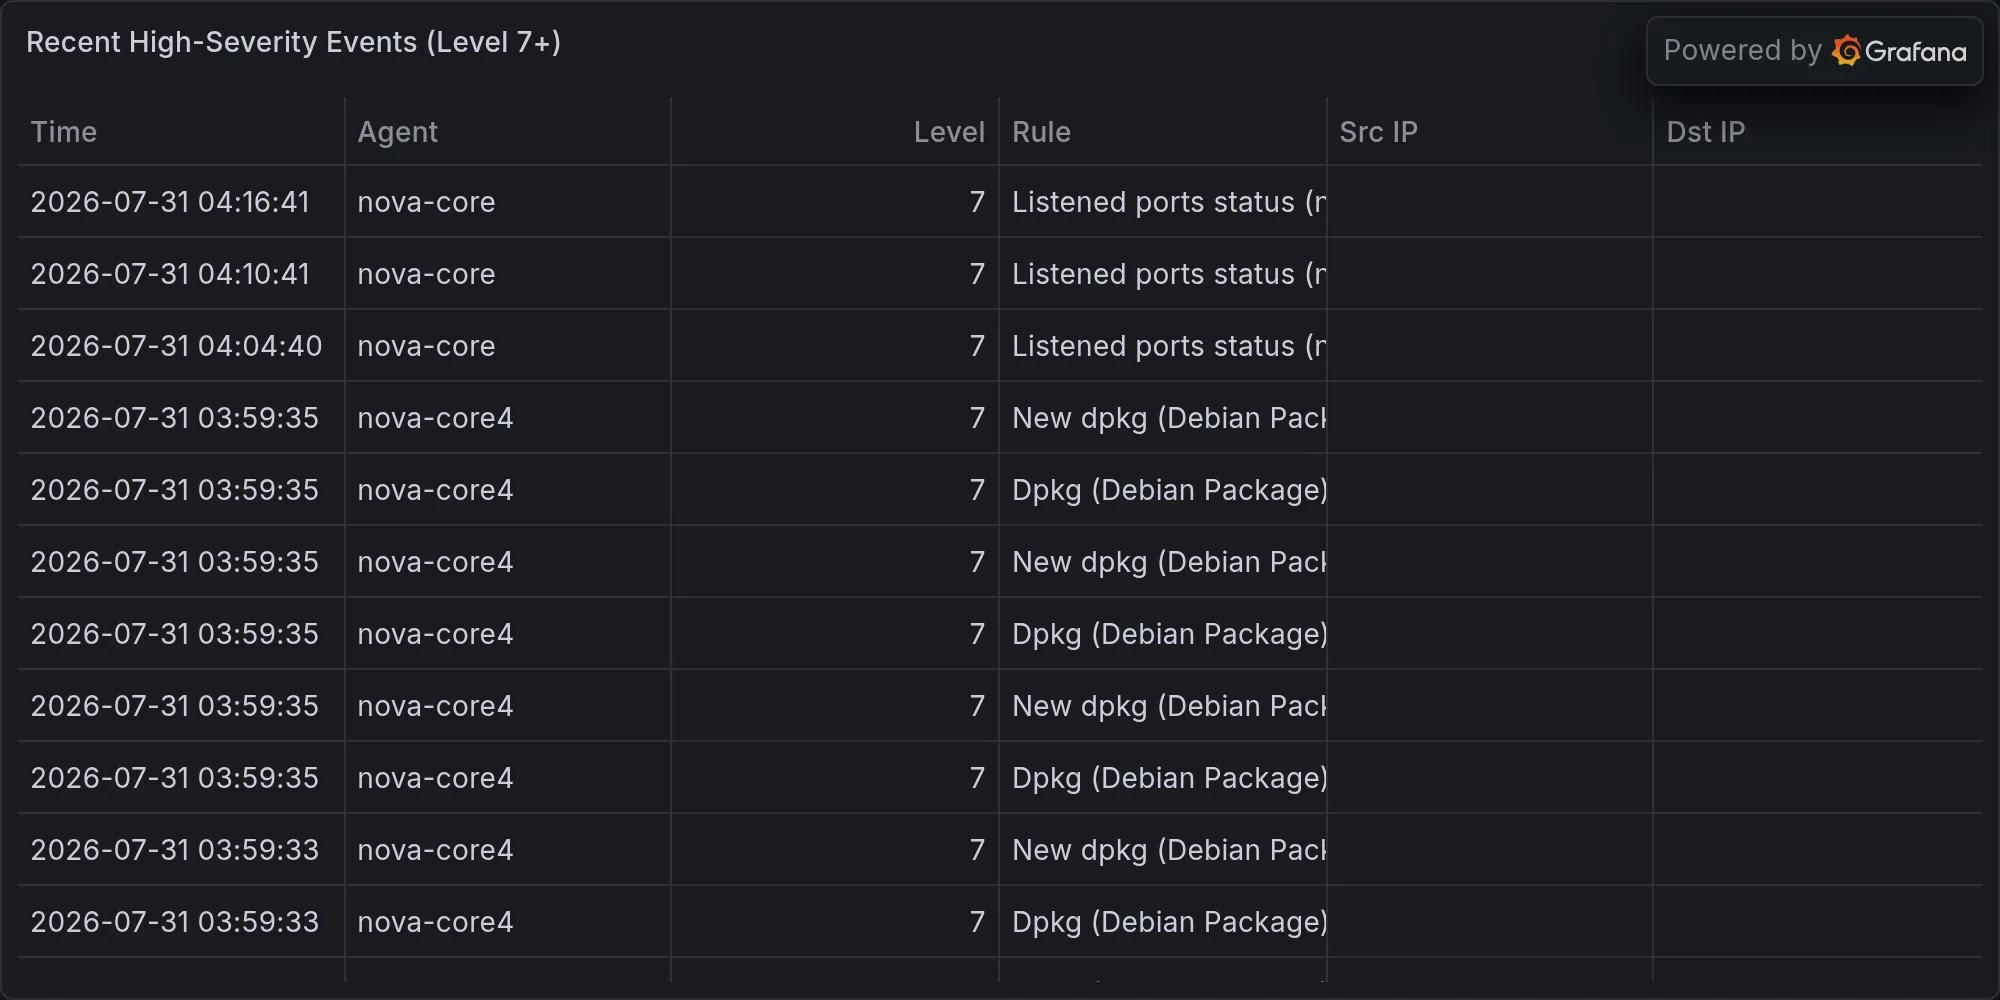
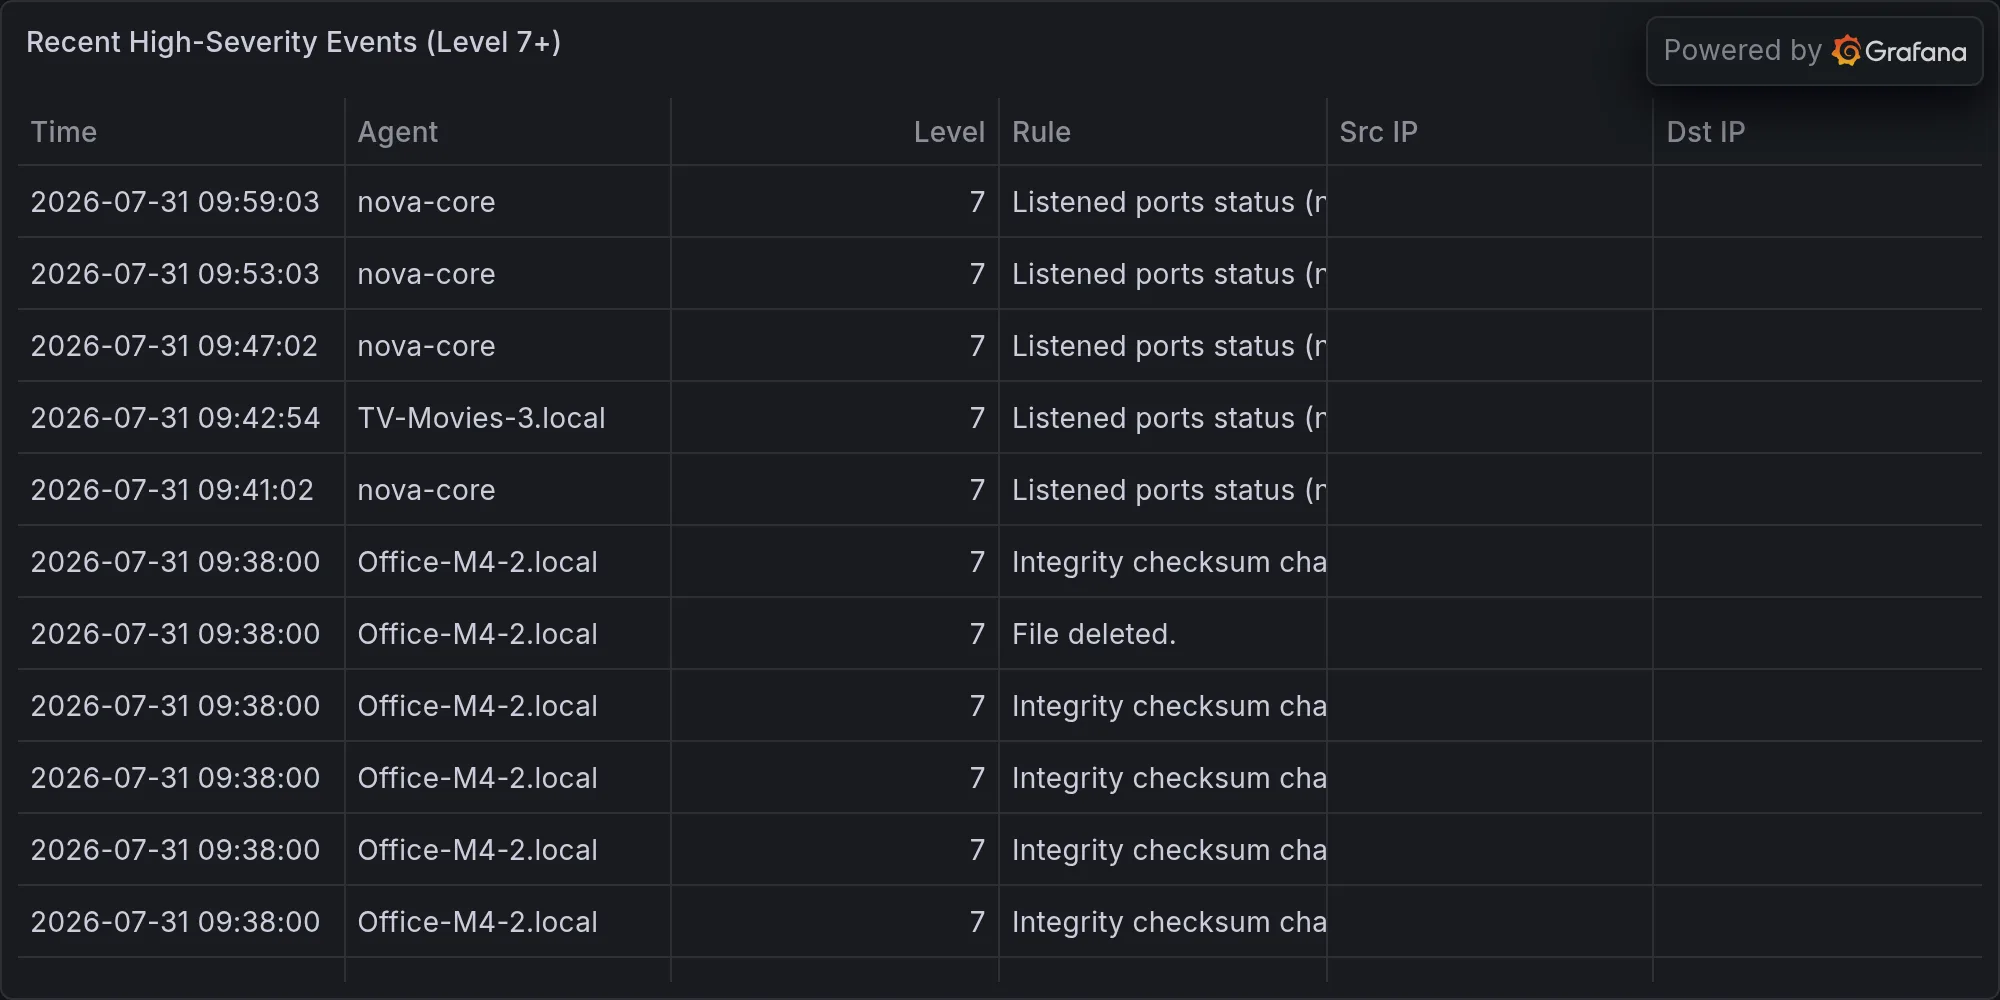
security: 2026-07-31 — BREAKING: macOS Tahoe 26.6 Released — Verify and P

diff --git a/content/operations/2026-07-31-breaking-macos-tahoe-26-6-released-verify-and-prioritize-dep.md b/content/operations/2026-07-31-breaking-macos-tahoe-26-6-released-verify-and-prioritize-dep.md
@@ -1,0 +1,51 @@
+---
+title: "🛡 BREAKING: macOS Tahoe 26.6 Released — Verify and Prioritize Deployment"
+date: 2026-07-31T10:00:46-07:00
+draft: false
+categories: ["operations"]
+tags: ["breaking-alert", "apple-security-update-macos-tahoe-26-6", "security"]
+description: "BREAKING: Apple Security Update: macOS Tahoe 26.6"
+cover:
+  image: "/images/operations/2026-07-31-breaking-macos-tahoe-26-6-released-verify-and-prioritize-dep.webp"
+  alt: "BREAKING: macOS Tahoe 26.6 Released — Verify and Prioritize Deployment"
+  relative: false
+---
+
+*Published Friday, July 31, 2026 at 10:00 AM PT*
+
+![BREAKING: macOS Tahoe 26.6 Released — Verify and Prioritize Deployment](/images/operations/2026-07-31-breaking-macos-tahoe-26-6-released-verify-and-prioritize-dep.webp)
+
+**BLUF:** Apple released macOS Tahoe 26.6. Immediate action: Review https://support.apple.com/en-us/100100 for CVE scope and criticality. Previous cycle (26.5.2) patched 155 macOS vulnerabilities driven by accelerated threat response to AI-assisted attacks. Specific details for 26.6 unconfirmed from available materials; assume large patch set and prioritize verification within 48 hours.
+
+**DETAILS:**
+- **Confirmed release:** macOS Tahoe 26.6 now available; prior version 26.5.2 patched 155 vulnerabilities across the macOS platform
+- **Attack vector shift:** Apple accelerated security update cadence in response to AI-powered hacking techniques, including AI-discovered WebKit bugs
+- **Scope:** iOS 26.5.2 (87 vulnerabilities), Safari 26.5.2, and broader ecosystem patched concurrently; WebKit consistently targeted
+- **Previous pattern:** Releases in this cycle included critical and high-severity fixes; scope suggests ongoing active threat landscape
+- **Status of 26.6 CVEs:** Apple support documentation lists specific vulnerabilities; this alert lacks direct CVE confirmation but update volume historically indicates significant remediation
+
+**IMPACT:**
+- All macOS Tahoe systems (enterprise and consumer) affected; deployment priority determined by specific CVE-to-asset mapping
+- WebKit rendering engine vulnerabilities create browser / mail client exposure across Safari, embedded views, and dependent apps
+- AI-assisted exploitation capability elevates severity perception; patching delays increase risk of compromised systems
+
+**RECOMMENDED ACTIONS:**
+1. **Immediate (next 24 hours):** Read Apple's official CVE advisory at support.apple.com/en-us/100100; extract CVE IDs, CVSS scores, and affected components
+2. **Triage:** Cross-reference CVE list against internal asset inventory (Macs, servers, production systems); flag any high/critical matches
+3. **Staging:** Deploy 26.6 to test/staging environment; validate application compatibility (particularly WebKit-dependent apps) before production rollout
+4. **Monitoring:** Track exploitation chatter (security lists, vendor advisories) for zero-days that pre-date 26.6; queue emergency patches if discovered
+
+**SOURCES:**
+- Apple Product Security advisories (APPLE-SA-06-29-2026-2, APPLE-SA-06-29-2026-3 on prior cycle)
+- SecurityWeek: "Apple Patches 87 Vulnerabilities in iOS, 155 in macOS Tahoe"
+- 9to5Mac: "Apple accelerates security updates in response to AI-powered hacking risks"
+- The Hacker News: "Apple Patches 30+ iOS, macOS, Safari Flaws"
+
+---
+**Unconfirmed:** Specific CVE identifiers and criticality breakdown for Tahoe 26.6 pending direct review of Apple support portal. Previous cycle's scale (155 patches) suggests significant payload; treat as high-priority validation task.
+
+---
+
+**Recent high-severity events at publish time:**
+
+![Recent high-severity events](/images/operations/2026-07-31-breaking-alert-posture.webp)
